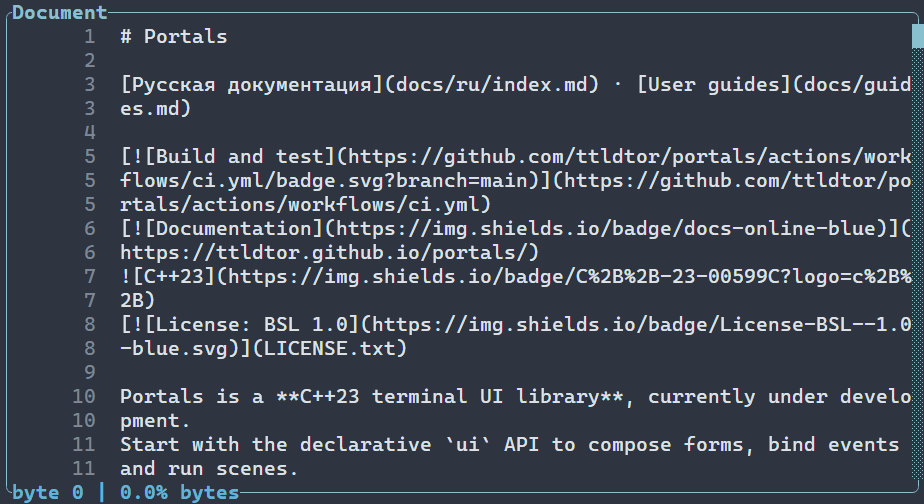
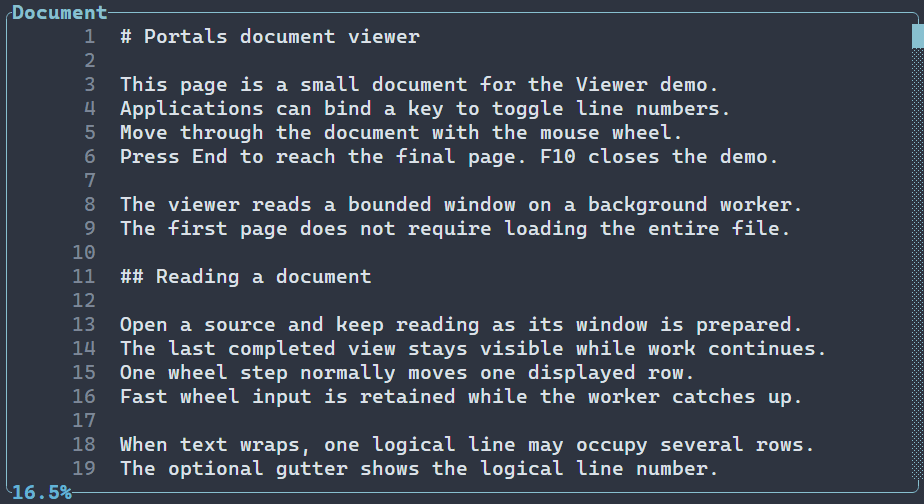
[PRTLS-359][DOCS] Show document coverage and final-screen navigation

Changed region(s): [[0.0, 0.1488, 1.0, 1.0], [0.2424, 0.0595, 0.4545, 0.0893], [0.8485, 0.7738, 1.0, 0.8036]]

diff --git a/docs/ru/document-view.md b/docs/ru/document-view.md
@@ -23,14 +23,20 @@
 | Up / Down, колесо мыши | Переход по визуальным строкам. |
 | PageUp / PageDown | Переход на размер окна с настроенным перекрытием. |
 | Home | Запрос байтовой позиции ноль. |
-| End | Запрос последнего доступного экрана; подготовка может продолжаться в фоне во время прохода источника. |
+| End | Запрос последней полной страницы; подготовка может продолжаться, пока источник читается. |
 | Left / Right при отключённом переносе | Сдвиг горизонтального окна ячеек. |
 | Вертикальная полоса прокрутки | Запрос байтовой позиции при известном точном размере источника. |
 | F5 | Обновление текущего источника. |
 
-Полоса отражает байты, не выдуманное точное количество строк. Если размер неизвестен, глобальная полоса позиции скрыта. Внизу показаны исходное байтовое смещение и процент по байтам, когда размер известен. Опциональная нумерация использует только подтверждённые проходом номера. Перенесённые фрагменты сохраняют номер логической строки. Девятиячеечное поле показывает до семи цифр: `?` означает неподтверждённый номер строки, а `+` — подтверждённый номер больше отображаемого диапазона; этот предел отображения не ограничивает 64-битные байтовые смещения.
+По умолчанию один нормализованный шаг колеса перемещает текст на одну экранную строку. Быстрый ввод накапливается, пока загружается окно. Ожидающие движения в противоположных направлениях могут компенсировать друг друга; попытка выйти за подтверждённую границу не создаёт долг для следующего движения. Home, End, переход ползунком и замена источника задают новую цель навигации. Другой шаг можно передать низкоуровневому конструктору через `ScrollAreaOptions::wheelStep`.
 
-Доступный для позиционирования источник позволяет подготовить холодный переход далеко по документу из ограниченного локального окна, без прохода всего предшествующего префикса. Решение о кодировке повторно используется только если оно подтверждено у начала источника; запрошенный исходный байтовый якорь сохраняется. Номера логических строк и их общее количество остаются неизвестными, пока не подтверждены; локальный EOF не доказывает число строк во всём документе. На известном EOF или за ним непустой источник показывает доступную последнюю строку или фрагмент, сохраняя запрошенное смещение на EOF либо на байт после него; завершающий перевод строки может дать пустую последнюю строку. Пустой источник остаётся пустым. Пустой ответ в произвольной удалённой позиции сам по себе не доказывает EOF. Во время подготовки остаётся последнее готовое окно. Если источник вернул пустой ответ без окончательного EOF, контрол переходит в ожидание; после появления данных вызовите `reload()` или нажмите F5. Автоматического опроса файла здесь нет; для следования за дописываемым журналом используйте [файловый LogView](log-view.md#log-view-file-ru).
+Положение ползунка — приблизительная проекция видимого окна на известный размер в байтах; это не значение покрытия в нижней строке. При известном размере промежуточные позиции ползунка отображаются на диапазон от нуля до `extent - visibleSpan`. Крайняя позиция сохраняет явный исходный байтовый якорь `extent` (`tail=false`), поэтому перетаскивание в конец или вызов `seekByte(extent)` может показать последнюю строку сверху, а не последнюю полную страницу. `End` запрашивает последнюю полную страницу. Такие явные переходы по байтам используют ограниченный локальный поиск и не сканируют весь предшествующий файл.
+
+Нижняя строка показывает приблизительное покрытие исходных байтов до нижнего края видимого содержимого. Уже на первом экране процент может быть больше нуля. Значение `100.0%` появляется только когда виден последний исходный байт; упреждающее чтение декодера и размер декодированного UTF-8 не считаются видимым покрытием. Если длинная строка без переноса обрезана справа, значение не станет 100%, пока не виден последний байт источника. При неизвестном размере показывается `progress unknown`, пока видимый последний байт не подтвердит конец; временное ожидание provider не означает EOF. Завершающий перевод строки не добавляет пустую строку отображения, но реальные пустые строки документа остаются видимыми. Исходный байтовый якорь и подтверждённый логический номер строки остаются доступны через `reader.status()`. Нумерация опциональна, по умолчанию выключена и использует только подтверждённые проходом номера. Перенесённые фрагменты сохраняют номер логической строки. Девятиячеечное поле показывает до семи цифр: `?` означает неподтверждённый номер строки, а `+` — подтверждённый номер больше отображаемого диапазона; этот предел отображения не ограничивает 64-битные байтовые смещения.
+
+Доступный для позиционирования источник позволяет подготовить холодный переход далеко по документу из ограниченного локального окна, без прохода всего предшествующего префикса. Решение о кодировке повторно используется только если оно подтверждено у начала источника; запрошенный исходный байтовый якорь сохраняется. Номера логических строк и их общее количество остаются неизвестными, пока не подтверждены; локальный EOF не доказывает число строк во всём документе. На известном EOF или за ним непустой источник показывает доступную последнюю строку или фрагмент, сохраняя запрошенное смещение на EOF либо на байт после него; завершающий перевод строки не добавляет ещё одну строку отображения, а пустые строки, присутствующие в источнике, сохраняются. Пустой источник остаётся пустым. Пустой ответ в произвольной удалённой позиции сам по себе не доказывает EOF. Во время подготовки остаётся последнее готовое окно. Если источник вернул пустой ответ без окончательного EOF, контрол переходит в ожидание; после появления данных вызовите `reload()` или нажмите F5. Автоматического опроса файла здесь нет; для следования за дописываемым журналом используйте [файловый LogView](log-view.md#log-view-file-ru).
+
+@image html document-view-end.gif "Последний шаг колеса доводит процент до 100% и оставляет последний полный экран."
 
 ## Источники и команды {#document-view-sources-ru}
 
@@ -92,7 +98,7 @@ DocumentView регистрирует три семантические част
 \include guide_document_view_styles.cpp
 
 @image html document-view-styles.png "Светлый текст документа, серые номера строк и голубой индикатор позиции."
-@image html document-view-styles.gif "Прокрутка от байта 0 до 1207 (28,6%)."
+@image html document-view-styles.gif "Прокрутка по одной строке, быстрая серия событий и переход к видимому концу."
 
 ## Ограничения ресурсов {#document-view-limits-ru}
 

diff --git a/docs/document-view.md b/docs/document-view.md
@@ -23,14 +23,20 @@ Build `portals_document_view_example` with `PORTALS_BUILD_EXAMPLES=ON` and run i
 | Up / Down, mouse wheel | Move through prepared visual rows. |
 | PageUp / PageDown | Move by a viewport with the configured overlap. |
 | Home | Request byte zero. |
-| End | Request the final available screen; preparation can remain pending while the source is scanned. |
+| End | Request the last full page; preparation can remain pending while the source is scanned. |
 | Left / Right with wrapping disabled | Move the horizontal cell window. |
 | Vertical scrollbar | Request a byte position when an exact byte extent is known. |
 | F5 | Refresh the current source. |
 
-The scrollbar represents bytes, rather than an invented exact number of lines. With an unknown extent, the view hides the global position bar. The footer shows an original byte offset and a byte percentage when the extent is known. Line numbers are optional and only show counts proven by scanning. Wrapped fragments retain the same logical line number. The 9-cell gutter displays up to seven digits: `?` marks an unproven line number and `+` marks a larger proven number; this display limit does not restrict 64-bit byte positions.
+The wheel moves one displayed row per normalized step by default. Rapid input accumulates while a window is loading. Pending movements in opposite directions can cancel each other; an attempt to move beyond a confirmed boundary does not create a debt against the next movement. Home, End, scrollbar seeks and source replacement establish a new navigation target. Low-level constructors accept `ScrollAreaOptions::wheelStep` for another step.
 
-A seekable source can prepare a distant cold seek from a bounded local window without scanning the entire preceding prefix. The encoding decision is reused only when it was proven at the source origin; the requested original-byte anchor is retained. Logical line numbers and totals remain unknown until proven, and reaching local EOF does not establish the document-wide line total. At or beyond a known EOF, a nonempty source shows its available final row or fragment while the requested offset remains at EOF or one byte past it; a terminal line feed can produce an empty final row. An empty source remains empty. An empty read at an arbitrary distant offset does not establish EOF. The last prepared frame remains visible during preparation. A source which returns no bytes without final EOF enters a waiting state; call `reload()` or press F5 when more data becomes available. This control does not poll the file for live append; use [file-backed LogView](log-view.md#log-view-file) for follow-tail behavior.
+The scrollbar position is an approximate projection of the visible window across a known byte extent; it is not the footer coverage value. For a known extent, intermediate thumb positions map across the range from byte zero to `extent - visibleSpan`. The maximum endpoint preserves the explicit raw-byte anchor at `extent` (`tail=false`), so dragging to EOF or calling `seekByte(extent)` may show the last row at the top instead of the last full page. `End` requests that last full page. These explicit byte seeks use the bounded local seek path and do not scan the entire preceding file.
+
+The footer reports approximate coverage through the original source bytes at the lower edge of the visible content. On the first screen, the percentage can already be greater than zero. It reaches `100.0%` only when the final original source byte is visible; decoder read-ahead and decoded UTF-8 size do not count as visible coverage. A clipped right edge of an unwrapped line does not report 100% until the source's final byte is visible. With an unknown extent, the footer shows `progress unknown` until a visible final byte proves the end; a temporarily waiting provider is not EOF. A terminal line feed does not create an extra empty display row, while actual blank rows in the document remain visible. The original byte anchor and any proven logical line number remain available through `reader.status()`. Line numbers are optional, disabled by default, and only show counts proven by scanning. Wrapped fragments retain the same logical line number. The 9-cell gutter displays up to seven digits: `?` marks an unproven line number and `+` marks a larger proven number; this display limit does not restrict 64-bit byte positions.
+
+A seekable source can prepare a distant cold seek from a bounded local window without scanning the entire preceding prefix. The encoding decision is reused only when it was proven at the source origin; the requested original-byte anchor is retained. Logical line numbers and totals remain unknown until proven, and reaching local EOF does not establish the document-wide line total. At or beyond a known EOF, a nonempty source shows its available final row or fragment while the requested offset remains at EOF or one byte past it; a terminal line feed does not add an extra display row, while blank rows present in the source remain visible. An empty source remains empty. An empty read at an arbitrary distant offset does not establish EOF. The last prepared frame remains visible during preparation. A source which returns no bytes without final EOF enters a waiting state; call `reload()` or press F5 when more data becomes available. This control does not poll the file for live append; use [file-backed LogView](log-view.md#log-view-file) for follow-tail behavior.
+
+@image html document-view-end.gif "The last wheel step reaches 100% and stops on the final full screen."
 
 ## Sources and commands {#document-view-sources}
 
@@ -92,7 +98,7 @@ Run this sample from the Portals source directory so `README.md` is available.
 \include guide_document_view_styles.cpp
 
 @image html document-view-styles.png "Light document text, gray line numbers and a blue position footer."
-@image html document-view-styles.gif "Scroll from byte 0 to 1,207 (28.6%)."
+@image html document-view-styles.gif "Scroll one row per wheel step, retain a rapid burst and reach the visible end."
 
 ## Resource limits {#document-view-limits}
 

diff --git a/ReleaseNotes.md b/ReleaseNotes.md
@@ -7,6 +7,21 @@ planned work is not included. An **Unreleased** heading has no publication date.
 
 ### Changed
 
+- DocumentView footer percentage estimates coverage of original source bytes
+  through the lower edge of visible content. It reaches 100% only when the final
+  source byte is visible; decoder read-ahead and decoded UTF-8 size do not count.
+  Unknown extent stays unknown until final visible EOF, and a clipped unwrapped
+  line does not report 100% before its final byte appears.
+
+- DocumentView moves one displayed row per normalized wheel step by default; a
+  terminal line feed does not add an extra empty display row, while real blank
+  rows remain. End requests the last full page. The scrollbar is a separate
+  approximate window-position projection over the known byte extent, accounting
+  for the visible span. Its maximum endpoint preserves the raw byte anchor at
+  extent (`tail=false`), so a direct EOF drag or `seekByte(extent)` may place the
+  final row at the top instead of showing the last full page. These seeks remain
+  bounded and do not scan the entire preceding file.
+
 - Clarify the separate MIT attribution of adapted Textual palette values, retain
   their complete notice in the browser gallery bundle, and document the existing
   Linux-only Monocypher dependency and its offline license notice.
@@ -51,6 +66,11 @@ planned work is not included. An **Unreleased** heading has no publication date.
   consumers for the selector qualifier API and widget virtual hook.
 
 ### Fixed
+
+- Accumulate rapid DocumentView wheel/key navigation while background work is
+  running instead of repeating a target from the old frame. Keep accepted motion
+  across temporary provider waits, resize and long backward movement; discard
+  impossible motion at proven boundaries before reversing direction.
 
 - Keep the focused LogView text surface in its normal theme colors; its frame
   and scrollbar carry the focus accent. Refresh the model-switching recording.
